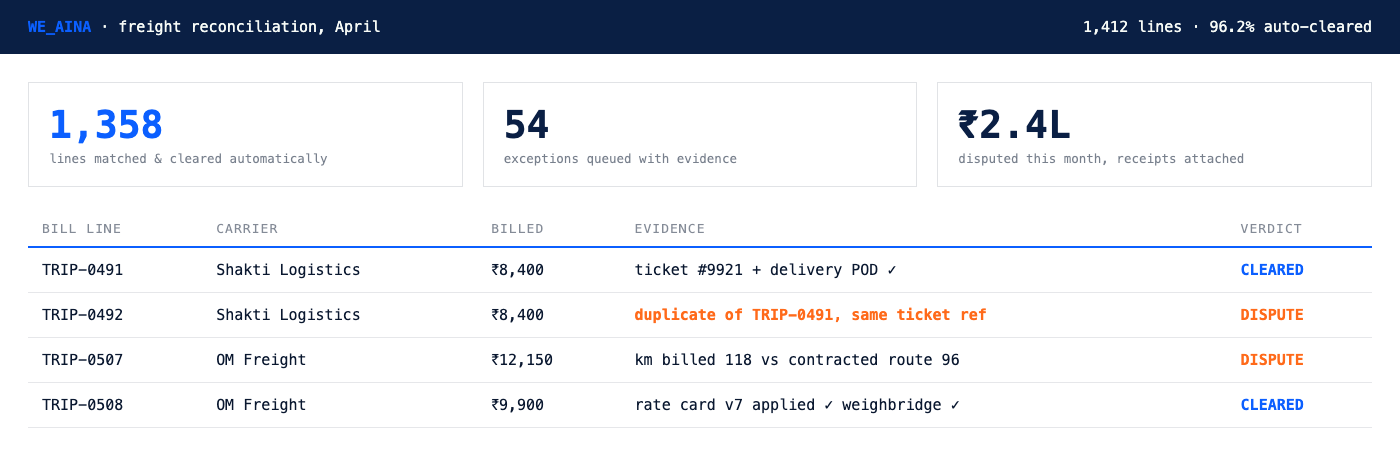
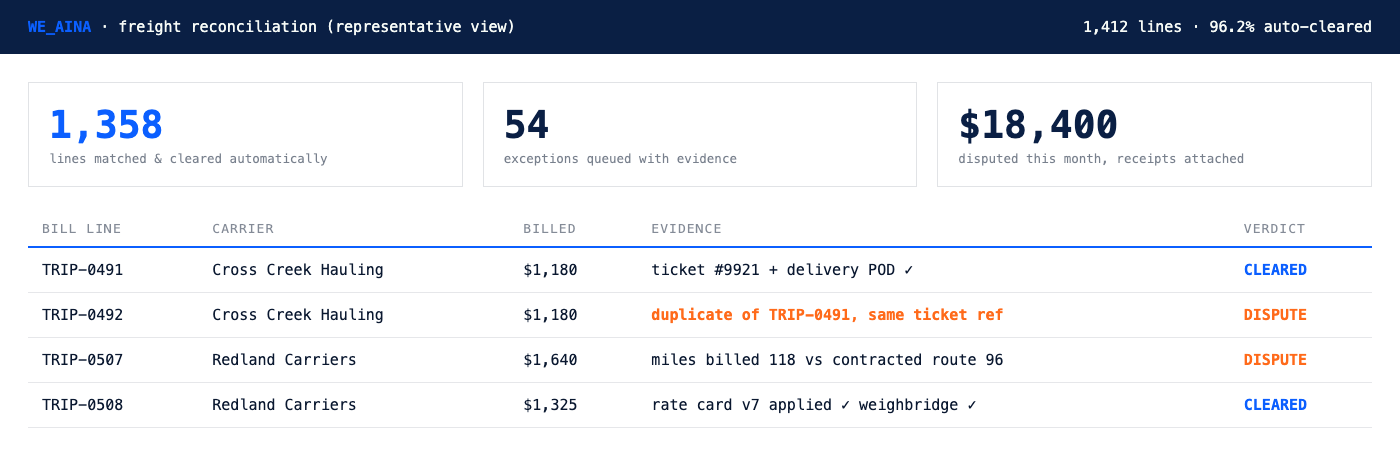
Fix two P0s and the proof-integrity defects found in audit
- app/[[...slug]]/route.js: stop serving dot-prefixed paths. /img/.verify-live/
  last-receipt.md returned 200 publicly, leaking internal agent receipts.
- app/api/lead/route.js: the persisted:false branch returned BEFORE after(notify),
  so on Vercel's ephemeral FS every lead was dropped and never emailed while the
  visitor was told a founder would call. Notify now always runs; rate limiting
  moved after validation so junk cannot burn a real visitor's quota; a missing
  x-forwarded-for now fails open instead of collapsing all traffic into one
  bucket; email regex tightened to a character allowlist.
- scripts/genartifacts.mjs: the RockProsUSA mockups rendered rupees, Indian
  state plates, Yelahanka and a Hindi WhatsApp order under a US client's name.
  Converted to USD, US carriers and fleet unit numbers, and labelled
  representative views.
- site/index.html: "71 actions completed in 24 hours" was a generator constant
  presented as telemetry. Duplicate H2, "one of 41" vs "100+", and the unsourced
  "24 native mobile builds" corrected.
- Banned logging copy and stale readiness-widget copy removed from three pages.

Claude-Session: https://claude.ai/code/session_01ASGwgHZi1fjCWoitddCDzX

diff --git a/site/index.html b/site/index.html
@@ -191,7 +191,7 @@
   <div class="wrap">
     <div class="center-head">
       <span class="label">03 · AI in action</span>
-      <h2>100+ projects shipped.<br>No two the same.</h2>
+      <h2>Nine years of shipping.<br>Then agents.</h2>
       <p class="sub dim">A few we can name. The rest run inside businesses that prefer their edge quiet, including enterprises that do not publicise vendors. Ask in the Sprint and we walk you through them.</p>
     </div>
     <div class="carousel-wrap">
@@ -242,11 +242,11 @@
           </div>
         </a>
         <a class="xcard" href="/blog/receipts-over-decks">
-          <img class="art" src="/img/agent-log.png" alt="Agent worklist showing 71 completed actions over 24 hours" width="1400" height="354">
+          <img class="art" src="/img/agent-log.png" alt="Agent worklist: a representative view of overnight agent actions" width="1400" height="354">
           <div class="body">
             <span class="tagpill">Inside the product</span>
             <h3>The agent worklist, running overnight</h3>
-            <p class="dim">71 actions completed in 24 hours by agents, while the operations team slept.</p>
+            <p class="dim">Matching, reporting and receivables worked overnight, so the exceptions were the only thing waiting in the morning.</p>
             <span class="go">I'm curious ↗</span>
           </div>
         </a>
@@ -292,7 +292,7 @@
 <!-- CASE STUDY -->
 <section id="casestudy" class="deep" data-shadow-ok>
   <div class="wrap">
-    <span class="label rv">05 · Case study: RockProsUSA (one of 41)</span>
+    <span class="label rv">05 · Case study: RockProsUSA</span>
     <h2 class="rv cs-h2">One system. Thirteen quarries.<br>Twelve months of <span class="accent">receipts</span>.</h2>
     <p class="sub dim rv">Aggregates producer running 13 sites in the US. Dispatch, invoicing and daily reporting moved onto agents in one build. The numbers below are their first twelve months on the system.</p>
 
@@ -335,11 +335,11 @@
     <div class="artifact-strip rv">
       <figure>
         <img src="/img/dispatch-board.png" alt="WE_AINA dispatch board showing truck assignments with the agent's reasoning beside each one" width="1400" height="501" loading="lazy">
-        <figcaption class="dim">The dispatch board the site managers actually use. Each assignment carries the reasoning that produced it.</figcaption>
+        <figcaption class="dim">The dispatch board, in the shape the site managers use it. Each assignment carries the reasoning that produced it. Representative view, not a customer screenshot.</figcaption>
       </figure>
       <figure>
         <img src="/img/invoice-match.png" alt="Three-way invoice match view pairing weighbridge ticket, delivery note and purchase order" width="1400" height="456" loading="lazy">
-        <figcaption class="dim">Three-way match: weighbridge ticket, delivery note, purchase order. Exceptions are the only thing a human sees.</figcaption>
+        <figcaption class="dim">Three-way match: weighbridge ticket, delivery note, purchase order. Exceptions are the only thing a human sees. Representative view, not a customer screenshot.</figcaption>
       </figure>
     </div>
 
@@ -360,7 +360,7 @@
       <div class="ten rv"><span class="n">100+</span><p>projects shipped across owned and client organisations.</p></div>
       <div class="ten rv"><span class="n">16</span><p>sectors shipped into, not one niche repeated.</p></div>
       <div class="ten rv"><span class="n">9</span><p>years shipping continuously, 2018 through 2026.</p></div>
-      <div class="ten rv"><span class="n">24</span><p>native mobile builds in Swift, Kotlin, Java and Dart.</p></div>
+      <div class="ten rv"><span class="n">374</span><p>repositories across the delivery history, 2018 to 2026.</p></div>
     </div>
 
     <div class="pf-split">
@@ -427,7 +427,7 @@
     <div class="step">
       <span class="k">Ongoing</span>
       <div><h3>Run</h3>
-      <p class="dim">The system runs; we watch the logs. Monthly report shows hours returned and actions taken, every number tied to work the system actually did.</p></div>
+      <p class="dim">The system runs and we stay on it. The monthly report shows hours returned and actions taken, every number tied to work the system actually did.</p></div>
     </div>
   </div>
 </section>
@@ -468,7 +468,7 @@
       <p style="margin-top:12px">You will never be handed to an account manager. It's the two of us, and we answer our own messages."</p>
       <p class="sig">- Chitransh &amp; Pratik</p>
     </div>
-    <p class="human-promise rv">When you fill the Score below, the report is generated by our system, but it's <b>reviewed and sent by a human</b>, and the Sprint call that follows is with <b>Chitransh or Pratik</b>, not a sales team.</p>
+    <p class="human-promise rv">Leave a contact above and the reply is <b>written and sent by a human</b>. The Sprint call that follows is with <b>Chitransh or Pratik</b>, not a sales team.</p>
   </div>
 </section>
 

diff --git a/app/api/lead/route.js b/app/api/lead/route.js
@@ -47,7 +47,10 @@ function rateLimited(ip) {
   return false;
 }
 
-const EMAIL = /^[^\s@]+@[^\s@]+\.[^\s@]+$/;
+// Character-class allowlist, not "anything without a space": the old pattern
+// accepted a@b.c<script> and stored it verbatim, which then went into Resend's
+// reply_to and made the send fail silently.
+const EMAIL = /^[A-Za-z0-9._%+-]+@[A-Za-z0-9.-]+\.[A-Za-z]{2,24}$/;
 // permissive international phone: 7-15 digits, optional +, spaces/dashes/parens
 const PHONE = /^\+?[\d][\d\s\-()]{6,18}\d$/;
 
@@ -62,8 +65,11 @@ const json = (obj, status = 200) =>
   new Response(JSON.stringify(obj), { status, headers: { "content-type": "application/json" } });
 
 export async function POST(req) {
-  const ip = req.headers.get("x-forwarded-for")?.split(",")[0]?.trim() || "?";
-  if (rateLimited(ip)) return json({ error: "rate limited" }, 429);
+  // A missing x-forwarded-for used to collapse every visitor into one bucket
+  // keyed "?", so eight anonymous requests rate-limited the entire site. With
+  // no usable IP we fail OPEN: spam protection is not worth dropping leads.
+  const fwd = req.headers.get("x-forwarded-for")?.split(",")[0]?.trim();
+  const ip = fwd || req.headers.get("x-real-ip")?.trim() || null;
 
   const body = await req.text();
   if (body.length > 12_000) return json({ error: "too large" }, 413);
@@ -77,6 +83,10 @@ export async function POST(req) {
   const kind = classify(p.contact);
   if (!kind) return json({ error: "need a valid email or phone" }, 400);
 
+  // Rate-limit AFTER validation so rejected junk (oversize, honeypot, bad
+  // contact) cannot burn a real visitor's quota for the hour.
+  if (ip && rateLimited(ip)) return json({ error: "rate limited" }, 429);
+
   const lead = {
     contact: String(p.contact).trim().slice(0, 254),
     kind,
@@ -87,23 +97,34 @@ export async function POST(req) {
     ts: new Date().toISOString()
   };
 
-  // Same degradation contract as the score route: on Vercel's ephemeral FS the
-  // store returns null and we still hand back a receipt. Wire a hosted store
-  // (Turso/libSQL) to persist in prod.
+  // On Vercel's ephemeral FS the SQLite store returns null. That used to return
+  // early, BEFORE the notify below — so on the documented deploy target every
+  // lead was discarded and never emailed while the visitor was told a founder
+  // would call. The email is now the primary delivery path and always runs;
+  // the database is the durable copy when one is configured.
   const id = await insertChatLead(lead);
-  if (id == null) return json({ ok: true, persisted: false, note: "lead store not configured" });
+  const persisted = id != null;
+  if (persisted) {
+    await audit(id, "chat_lead_captured", `${kind} · ${lead.industry || "no-industry"}`);
+  }
 
-  await audit(id, "chat_lead_captured", `${kind} · ${lead.industry || "no-industry"}`);
-  // email chitransh@workelate.com after the response is sent; lead is stored
+  // email chitransh@workelate.com after the response is sent, stored or not
   after(async () => {
     try {
       const r = await notify(lead);
-      await audit(id, r.sent ? "notify_sent" : "notify_skipped",
-        r.sent ? `to ${NOTIFY_TO}` : r.reason);
+      if (persisted) {
+        await audit(id, r.sent ? "notify_sent" : "notify_skipped",
+          r.sent ? `to ${NOTIFY_TO}` : r.reason);
+      } else if (!r.sent) {
+        // Nowhere left to record it: say so loudly in the server log so a lost
+        // lead is visible in `vercel logs` instead of vanishing silently.
+        console.error("[lead] NOT STORED AND NOT EMAILED", r.reason, lead.contact);
+      }
     } catch (e) {
-      await audit(id, "notify_failed", e.message);
+      if (persisted) await audit(id, "notify_failed", e.message);
+      else console.error("[lead] NOT STORED, notify threw", e.message, lead.contact);
     }
   });
 
-  return json({ ok: true, persisted: true, id });
+  return json({ ok: true, persisted, ...(persisted ? { id } : { note: "lead store not configured" }) });
 }

diff --git a/site/how-we-work.html b/site/how-we-work.html
@@ -83,7 +83,7 @@
     <div class="principle rv"><div class="pn">03</div><div><h3>The verify loop: nobody grades their own homework</h3><p class="dim">Every build runs inside a deterministic verification gate, automated checks that block "done" until the system provably works on your data. The same discipline applies to our agents in production: nothing counts as shipped until it provably works on your data. This is how a 2-person firm ships with enterprise-grade governance.</p></div></div>
     <div class="principle rv"><div class="pn">04</div><div><h3>Fixed price, priced after diagnosis</h3><p class="dim">The Diagnostic Sprint (2 weeks, fixed fee) produces the build plan with the price on it. We can price fixed because agents make our costs predictable, and because we've done the diagnosis, not estimated from a proposal template. If the Sprint finds nothing worth building, we tell you in writing.</p></div></div>
     <div class="principle rv"><div class="pn">05</div><div><h3>The savings go to you</h3><p class="dim">Removing the pyramid removes most of the cost. We keep senior-firm margins on a small team; you pay 3–4× less than an SI quote for the same outcome. For a $5–50M business that means a serious product build at $30K–$100K instead of a seven-figure program.</p></div></div>
-    <div class="principle rv"><div class="pn">06</div><div><h3>We run on what we sell</h3><p class="dim">WE_AINA is WorkElate's own agency, our delivery runs on WorkElate, the AI-native operating system we build. Your engagement is managed, executed and audited on the same platform we ship to clients. If our product could not run a real agency at commercial stakes, we would be the first to know, and the first to pay for it.</p></div></div>
+    <div class="principle rv"><div class="pn">06</div><div><h3>We run on what we sell</h3><p class="dim">WE_AINA is WorkElate's own agency, our delivery runs on WorkElate, the AI-native operating system we build. Your engagement is scoped, built and run on the same platform we ship to clients. If our product could not run a real agency at commercial stakes, we would be the first to know, and the first to pay for it.</p></div></div>
   </div>
 </section>
 
@@ -100,7 +100,7 @@
 <section id="cta">
   <div class="wrap">
     <h2>Book a Diagnostic Sprint</h2>
-    <p class="dim">Five questions. Your report, three automation opportunities with conservative numbers, arrives in 10 minutes.</p>
+    <p class="dim">Two weeks, fixed fee. You get a build plan with a price on it, and if we find nothing worth building we say so in writing.</p>
     <p style="margin-top:24px"><a class="btn" href="/#ask">Book a Diagnostic Sprint</a></p>
   </div>
 </section>

diff --git a/site/about.html b/site/about.html
@@ -124,7 +124,7 @@
   <div class="wrap">
     <span class="label">What we believe</span>
     <h2>The convictions under every engagement</h2>
-    <div class="principle rv"><div class="pn">01</div><div><h3>Receipts over trust</h3><p class="dim">Every claim we make carries a number; every agent action carries a log line. If a consultancy asks you to trust its status report, ask who audits the reporter.</p></div></div>
+    <div class="principle rv"><div class="pn">01</div><div><h3>Receipts over trust</h3><p class="dim">Every claim we make carries a number. If a consultancy asks you to trust its status report, ask what moved.</p></div></div>
     <div class="principle rv"><div class="pn">02</div><div><h3>Transformation is sitting-in-the-room work</h3><p class="dim">You cannot redesign an operation from an offshore delivery center. Diagnosis happens in your dispatch office, your studio, your finance room.</p></div></div>
     <div class="principle rv"><div class="pn">03</div><div><h3>You own everything</h3><p class="dim">Code, data, system, documentation. Lock-in is a business model, not an accident, and it isn't ours.</p></div></div>
     <div class="principle rv"><div class="pn">04</div><div><h3>Honesty is cheaper than churn</h3><p class="dim">If the Sprint finds nothing worth building, we say so in writing. A client who trusts the "no" comes back with the next real problem.</p></div></div>
@@ -134,7 +134,7 @@
 <section id="cta">
   <div class="wrap">
     <h2>Book a Diagnostic Sprint</h2>
-    <p class="dim">Five questions. The Sprint call that follows is with Chitransh or Pratik, not a sales team.</p>
+    <p class="dim">Two weeks, fixed fee, and a build plan with a price on it at the end. The call is with Chitransh or Pratik, not a sales team.</p>
     <p style="margin-top:24px"><a class="btn" href="/#ask">Book a Diagnostic Sprint</a></p>
   </div>
 </section>

diff --git a/app/[[...slug]]/route.js b/app/[[...slug]]/route.js
@@ -38,6 +38,7 @@ function toSlug(base, filePath) {
 
 function walk(dir, base, out) {
   for (const name of readdirSync(dir)) {
+    if (name.startsWith(".")) continue; // never publish dotfiles (agent receipts, .DS_Store)
     const p = path.join(dir, name);
     if (statSync(p).isDirectory()) walk(p, base, out);
     else out.push(toSlug(base, p));
@@ -55,6 +56,10 @@ export function generateStaticParams() {
 function resolve(slug = []) {
   let base = SITE, parts = slug;
   if (parts[0] === "assets") { base = ASSETS; parts = parts.slice(1); }
+
+  // A dot-prefixed segment is never a public URL. Blocks /img/.verify-live/*
+  // (internal agent receipts) being served even though the file is on disk.
+  if (parts.some(seg => seg.startsWith("."))) return null;
 
   let p = path.normalize(path.join(base, ...parts));
   if (!p.startsWith(base)) return null; // path traversal guard
